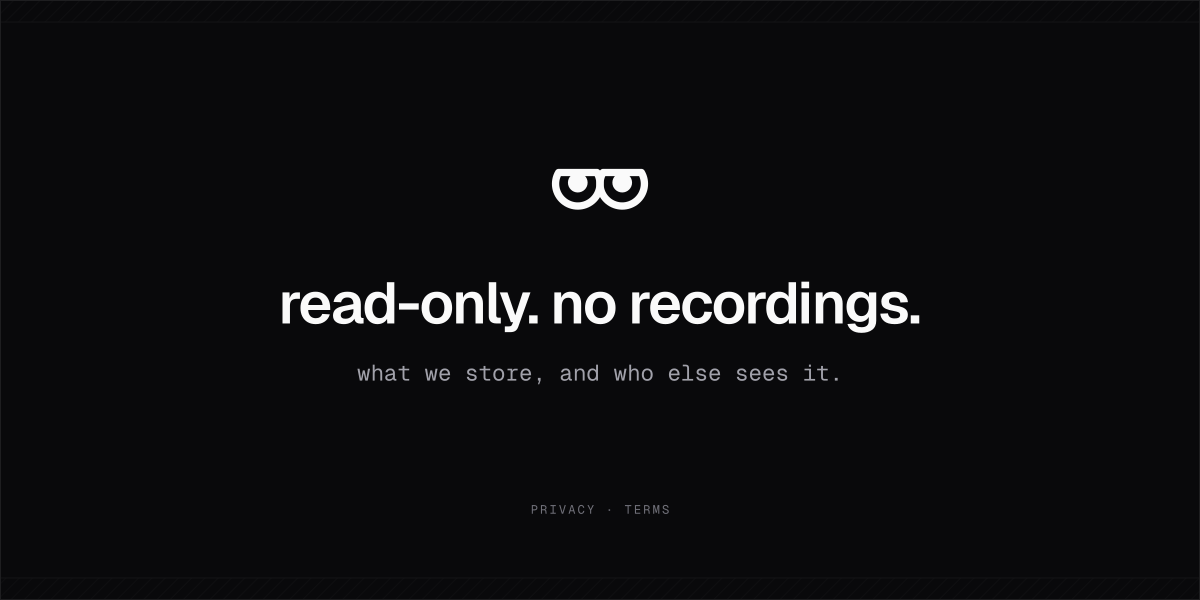
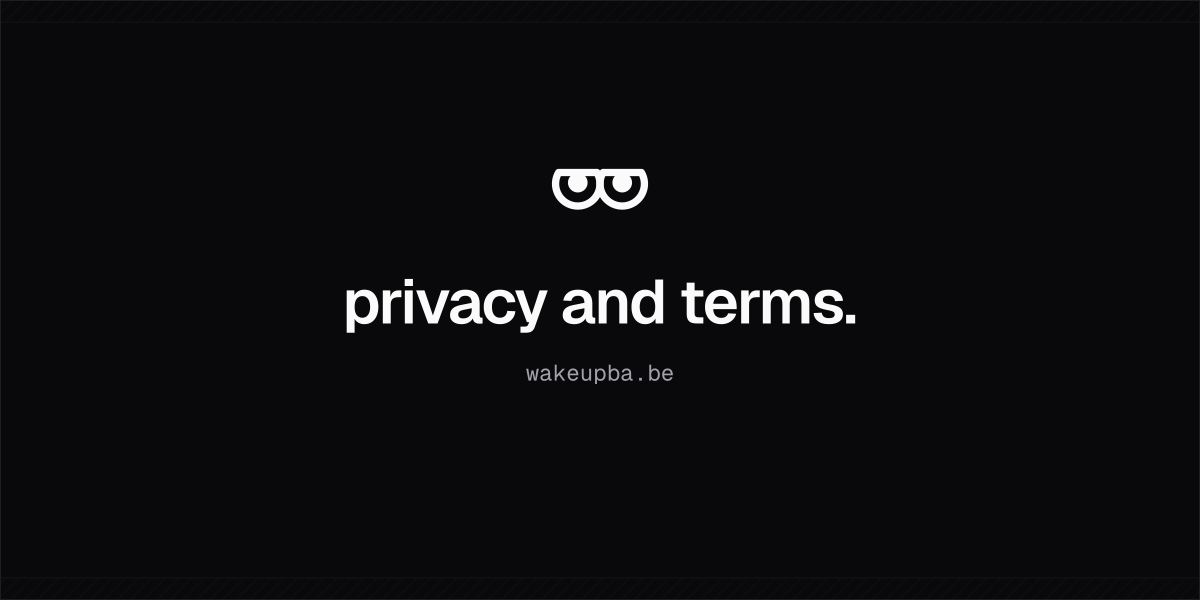
fix(landing): every share card now says where it lives
All eleven OG cards regenerated from the social-preview template.
The calendar card drops its metadata footer for the domain, legal
and contact stop performing ('privacy and terms.' and 'contact us.'
over wakeupba.be), the blog color post stops colliding with the
calendar card's statement, and every remaining footer carries the
domain, because none of them mentioned it anywhere.

diff --git a/apps/landing/src/lib/blog.ts b/apps/landing/src/lib/blog.ts
@@ -67,7 +67,7 @@ export const POSTS: BlogPost[] = [
     published: '2026-08-12',
     readMinutes: 3,
     card: OG_CARDS.blogColorPicker,
-    imageAlt: 'color it red. eleven colors. one of them rings.',
+    imageAlt: 'the whole product is a color. eleven colors. one of them rings.',
   },
   {
     slug: 'one-permanent-number',

diff --git a/apps/landing/src/app/privacy/page.tsx b/apps/landing/src/app/privacy/page.tsx
@@ -15,7 +15,7 @@ export const metadata = pageMetadata({
   description: DESCRIPTION,
   path: '/privacy/',
   card: OG_CARDS.legal,
-  imageAlt: 'Read-only. No recordings. What we store, and who else sees it.',
+  imageAlt: 'Privacy and terms. wakeupba.be',
   type: 'article',
 });
 

diff --git a/apps/landing/src/app/terms/page.tsx b/apps/landing/src/app/terms/page.tsx
@@ -16,7 +16,7 @@ export const metadata = pageMetadata({
   description: DESCRIPTION,
   path: '/terms/',
   card: OG_CARDS.legal,
-  imageAlt: 'Read-only. No recordings. What we store, and who else sees it.',
+  imageAlt: 'Privacy and terms. wakeupba.be',
   type: 'article',
 });
 

diff --git a/apps/landing/src/app/contact/page.tsx b/apps/landing/src/app/contact/page.tsx
@@ -16,7 +16,7 @@ export const metadata = pageMetadata({
   description: DESCRIPTION,
   path: PATH,
   card: OG_CARDS.contact,
-  imageAlt: 'No support maze. Support, data requests, bugs, disclosures.',
+  imageAlt: 'Contact us. wakeupba.be',
   type: 'website',
 });
 
